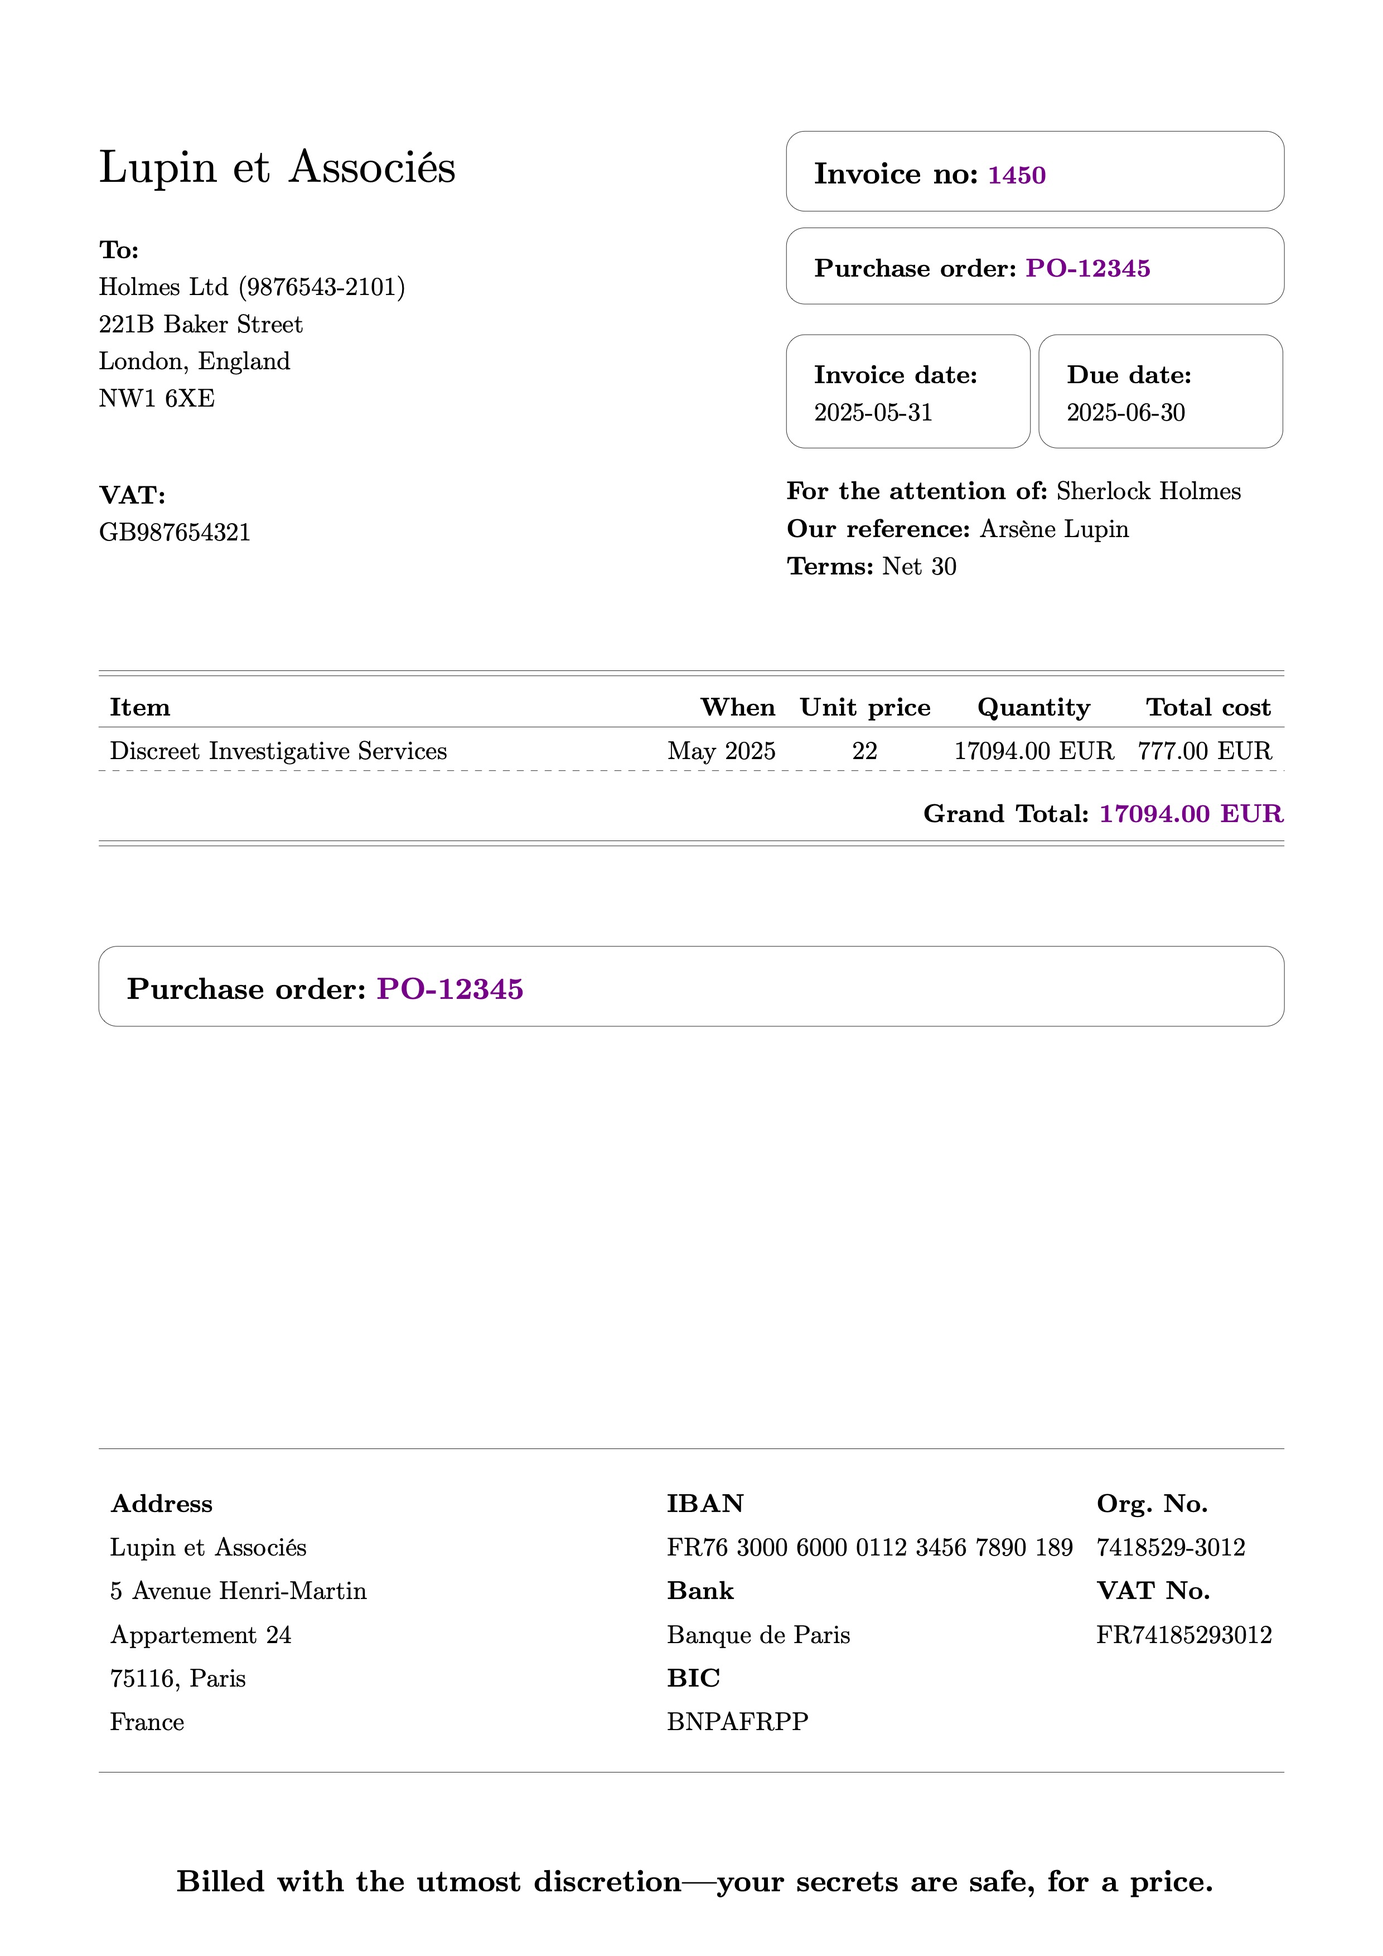
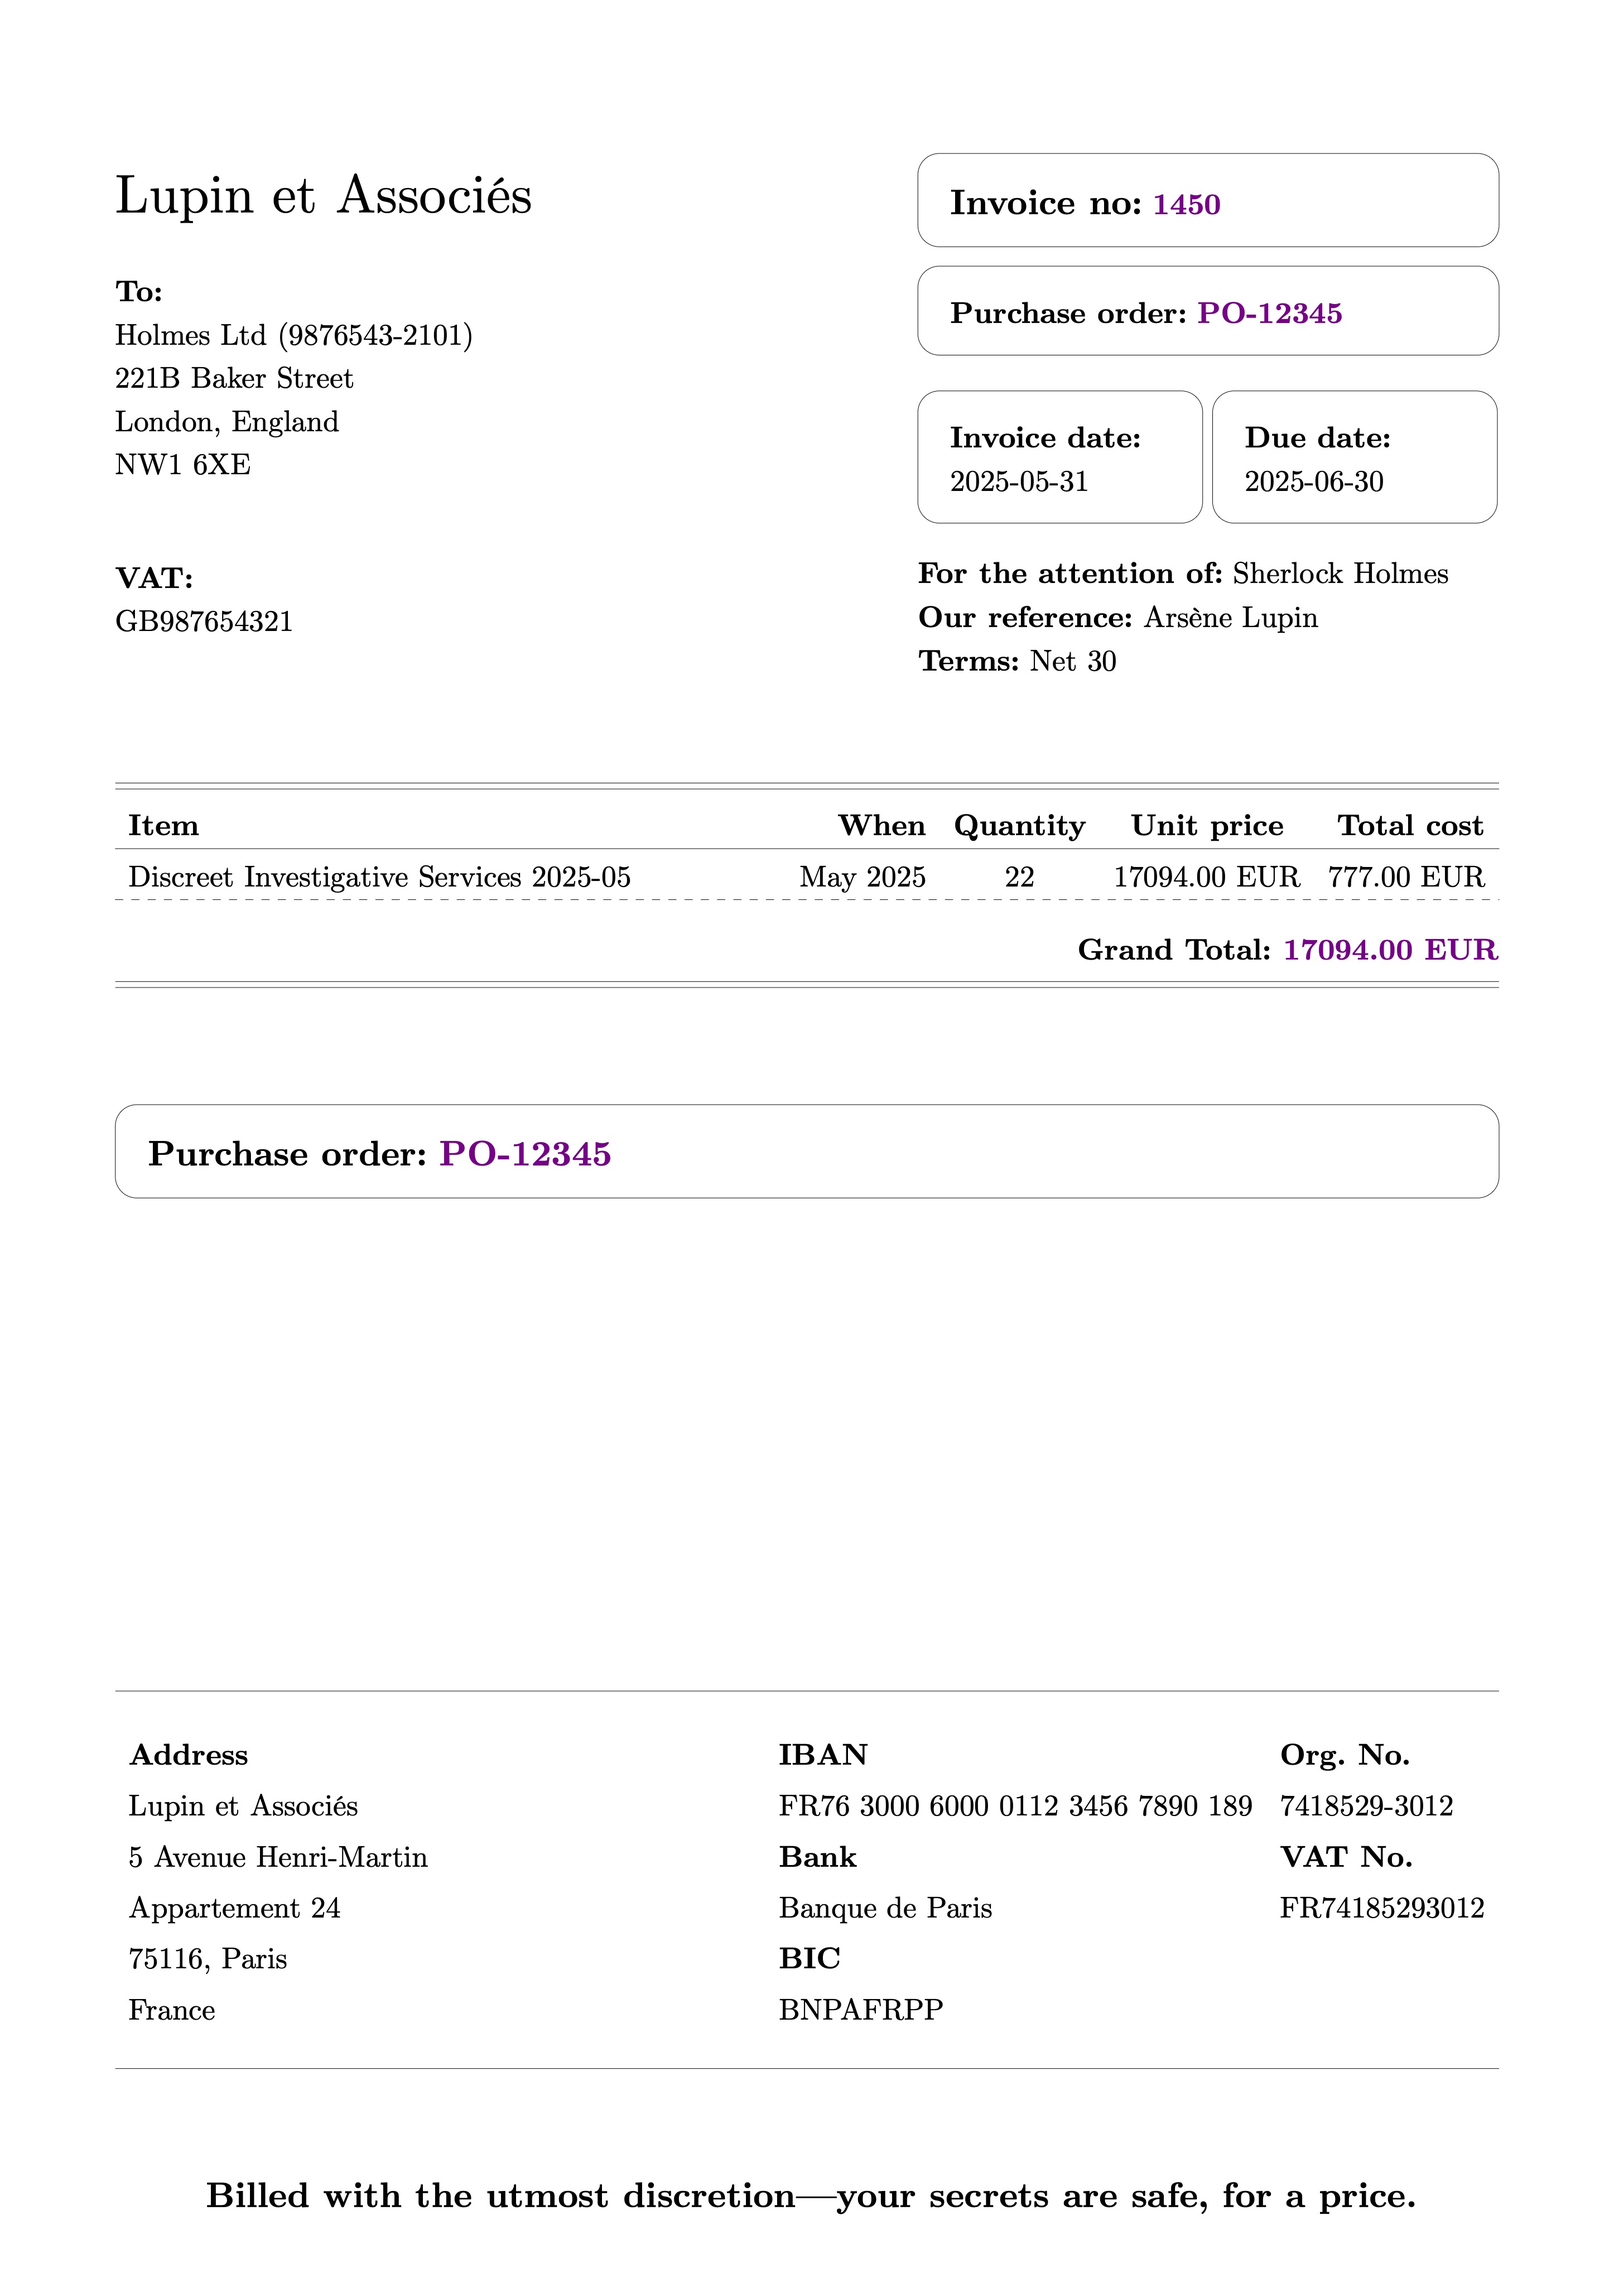
Fix bug where header of table flipped Quanityt and Unit Price. Now opens the PDF after generation. Append  Year and Month After Service name

diff --git a/crates/cli/src/dispatch_command.rs b/crates/cli/src/dispatch_command.rs
@@ -47,14 +47,15 @@ pub fn render_sample() -> Result<PathBuf> {
 fn run_invoice_command_with_base_path(
     input: InvoiceInput,
     data_path: impl AsRef<Path>,
-) -> Result<()> {
+) -> Result<PathBuf> {
     let input = input.parsed()?;
     info!("🔮 Starting PDF creation, input: {}...", input);
     let pdf_location = create_pdf_with_data_base_path(data_path, input, render)?;
-    save_pdf_location_to_tmp_file(pdf_location)
+    save_pdf_location_to_tmp_file(pdf_location.clone())?;
+    Ok(pdf_location)
 }
 
-pub fn run_invoice_command(input: InvoiceInput) -> Result<()> {
+pub fn run_invoice_command(input: InvoiceInput) -> Result<PathBuf> {
     run_invoice_command_with_base_path(input, data_dir())
 }
 

diff --git a/crates/core/src/models/data/data.rs b/crates/core/src/models/data/data.rs
@@ -122,8 +122,9 @@ impl Data {
                             self.information.months_off_record(),
                         )?;
                         let worked_days = working_days - days_off.map(|d| *d).unwrap_or(0);
+                        let service_name = format!("{} {}", self.service_fees.name(), target_month);
                         let service = Item::builder()
-                            .name(self.service_fees.name().clone())
+                            .name(service_name)
                             .transaction_date(invoice_date)
                             .quantity(Quantity::from(worked_days as f64))
                             .unit_price(*self.service_fees.unit_price())

diff --git a/crates/cli/src/run.rs b/crates/cli/src/run.rs
@@ -31,7 +31,10 @@ pub fn run(input: CliArgs) {
         }
         Command::Invoice(invoice_input) => {
             let _ = run_invoice_command(invoice_input)
-                .inspect_err(|e| error!("Error creating PDF: {}", e));
+                .inspect_err(|e| error!("Error creating PDF: {}", e))
+                .inspect(|path| {
+                    open_path(path);
+                });
         }
         Command::Data(data_admin_input) => {
             let _ = run_data_command(data_admin_input.command()).inspect_err(|e| {

diff --git a/crates/core/src/logic/calendar_logic.rs b/crates/core/src/logic/calendar_logic.rs
@@ -605,6 +605,7 @@ mod tests {
         let start = YearAndMonth::december(2024);
         let end = YearAndMonth::april(2025);
         assert_eq!(end.elapsed_months_since(start), 4);
+        assert!(start < end);
     }
 
     #[test]
